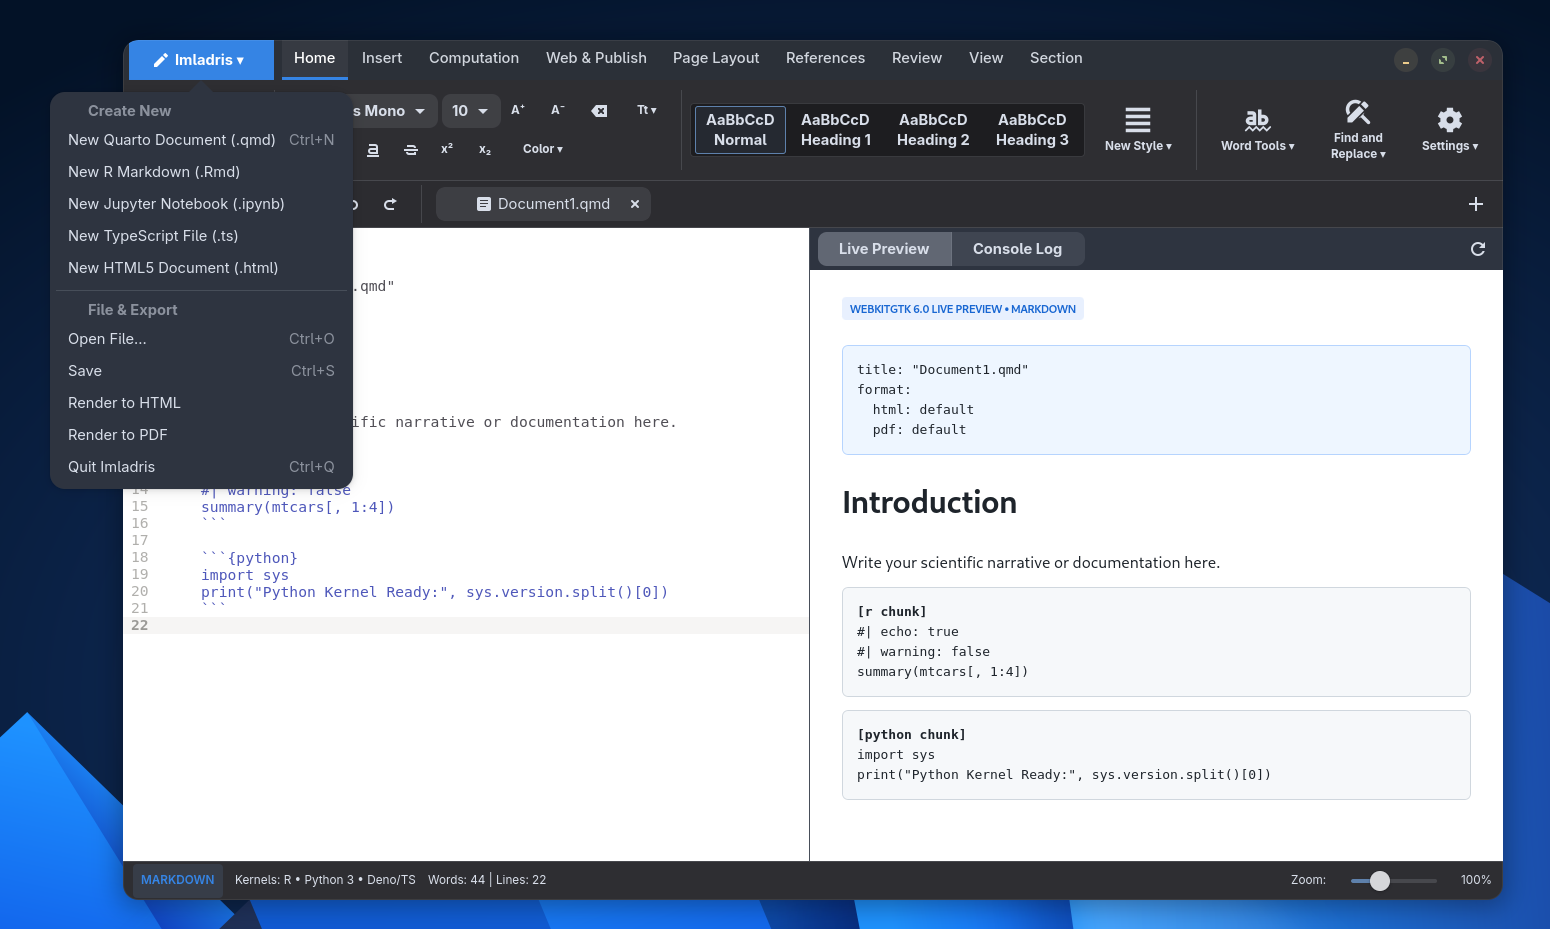
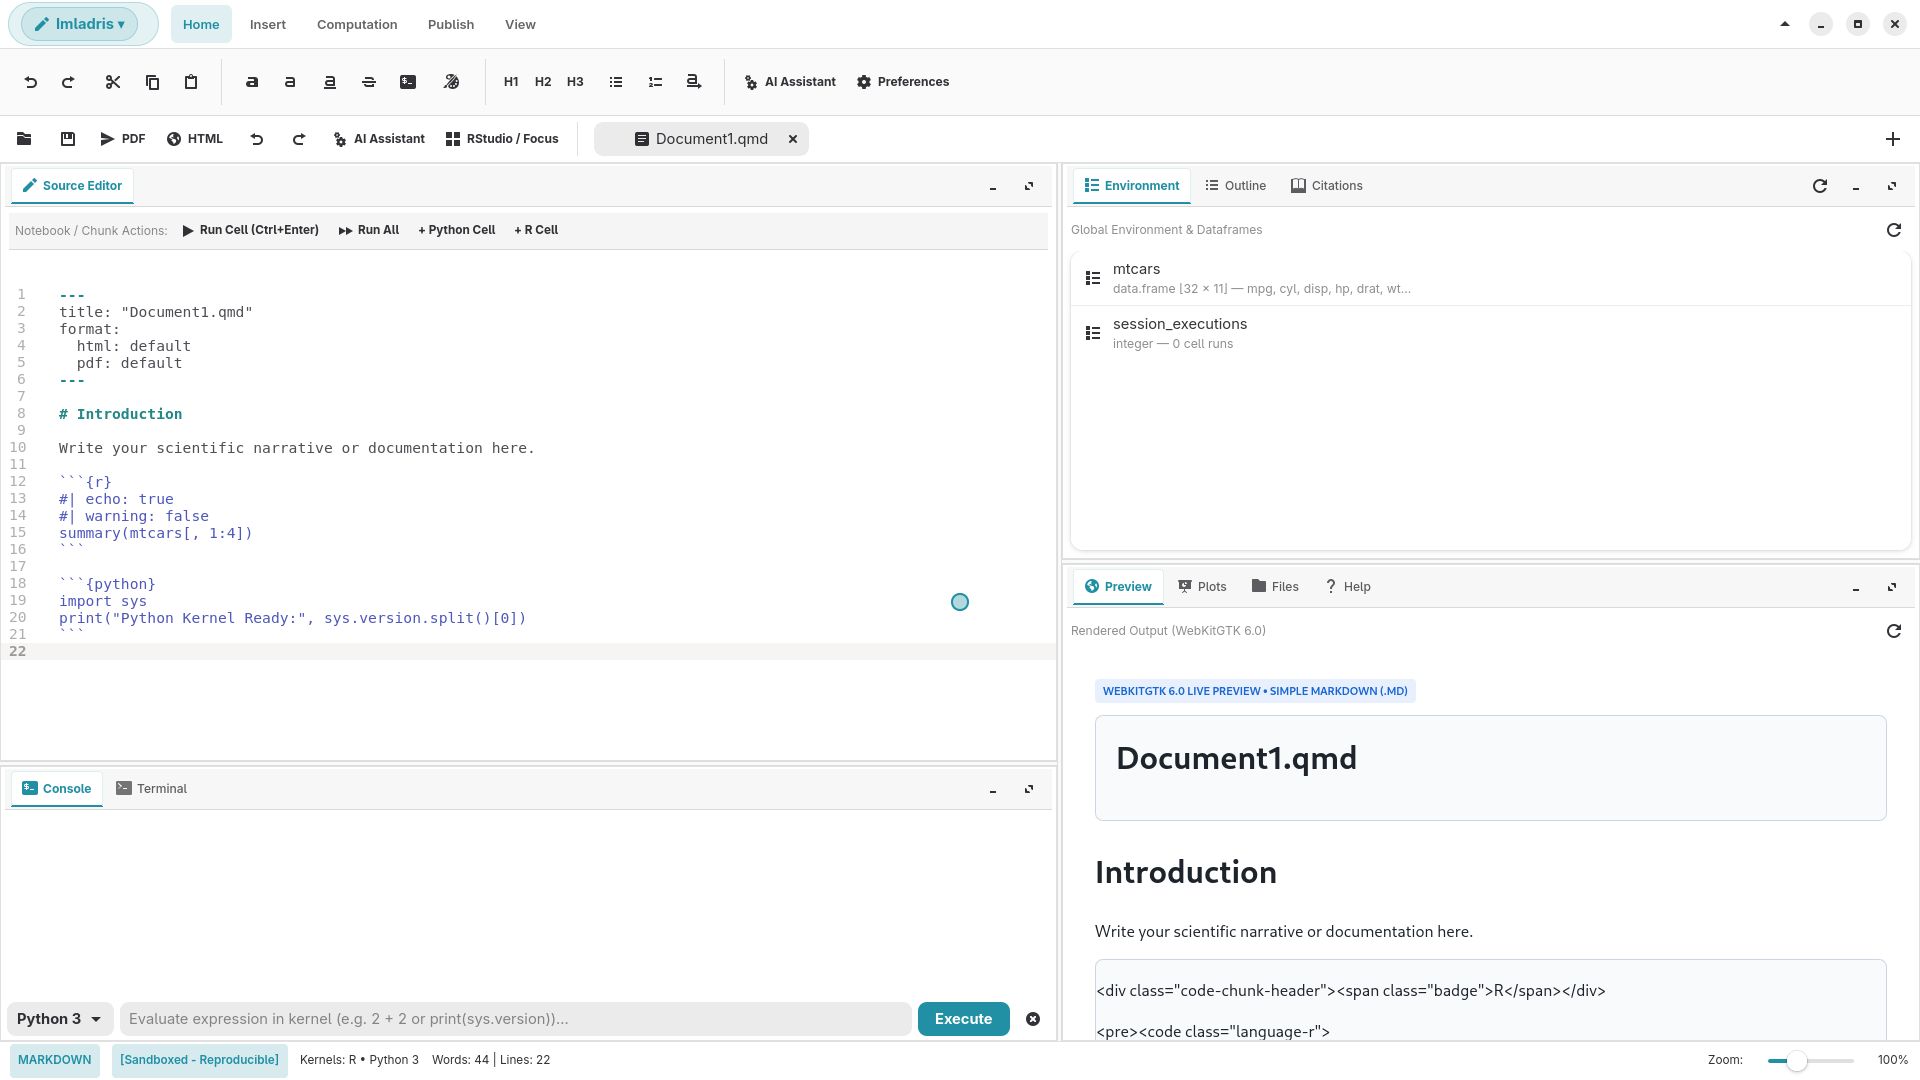
docs: update README and AppStream metainfo with new screenshots and modernized UI documentation

diff --git a/README.md b/README.md
@@ -30,7 +30,13 @@ The itch it scratches is simple. RStudio is great for analysis but heavy for pro
 - **Writer mode** for `.md` and `.html`: no kernels are started, nothing computational is shown, and the ribbon shows only formatting, live preview and export.
 - **Workbench mode** for `.Rmd`, `.qmd`, `.ipynb`, `.R` and `.py`: source editor, environment/outline pane, console + terminal, and a files/plots/packages pane.
 
-The ribbon follows suit. It's a small state machine (`Window.update_ribbon_state_machine`) that shows or greys out actions based on the document format and project type, so you don't see "Restart Kernel" on a Markdown note.
+### Modernized Libadwaita Ribbon Menu
+The Ribbon menu has been modernized to integrate seamlessly with GNOME Libadwaita and GTK4 design language:
+- **5 High-Density Tabs**: Consolidated 9 fragmented tabs into 5 high-utility tabs: `Home`, `Insert`, `Computation`, `Publish`, and `View`.
+- **Linked Controls & Design Tokens**: Uses native `@headerbar_bg_color`, `@window_bg_color`, and `@accent_color` tokens with linked button groups (`.linked`), reducing vertical height by ~35px to a sleek ~52px deck.
+- **Collapsible Ribbon (`Ctrl+F1`)**: Quickly collapse or expand the ribbon deck on demand with the top-bar chevron button or `<Control>F1` shortcut for maximum editor focus.
+- **Wired Functional Tools**: Built-in undo/redo (`Ctrl+Z` / `Ctrl+Shift+Z`), headings (`#`, `##`, `###`), lists and blockquotes, interactive 6x6 table picker popover, code chunk popover, citation popovers, LaTeX math (`$$`), Mermaid diagrams, ggplot2 snippets, and live zoom slider.
+- **Context-Aware State Machine**: A dedicated engine (`Window.update_ribbon_state_machine`) adapts visible and sensitive states based on document format and project sandbox type, avoiding irrelevant actions.
 
 ### Running code
 - Persistent **R** and **Python** sessions (`ReplBridge`) run as long-lived subprocesses, so variables survive between chunks like they do in a real REPL.
@@ -73,11 +79,19 @@ Imladris includes a dedicated AI writing and coding panel with out-of-the-box su
 - **Local Ollama & LM Studio**: Zero-cloud offline privacy via Ollama (`localhost:11434`) or LM Studio Local Server (`localhost:1234`).
 - **Custom OpenAI-Compatible**: Connect to any endpoint (Groq, Mistral, Together, vLLM, private proxies).
 
+<p align="center">
+  <img src="data/screenshots/imladris-preferences-ai.png" alt="Multi-Provider AI Assistant Configuration" width="700">
+</p>
+
 Credentials and model choices are persisted locally in `~/.config/imladris/ai_config.json` (restricted to user read-write mode `0600`) and automatically detect standard environment variables (`GEMINI_API_KEY`, `ANTHROPIC_API_KEY`, `OPENAI_API_KEY`, `DEEPSEEK_API_KEY`, `MOONSHOT_API_KEY`, `DASHSCOPE_API_KEY`, `CURSOR_API_KEY`, `NVIDIA_API_KEY`).
 
 ### Extras
 - **Appearance & GNOME Accents** (menu → Preferences, `Ctrl+,`): switch between System Theme, Light, Dark, and Eye Friendly (warm sepia) palettes. Includes GNOME Settings-style circular accent color swatches (Blue, Teal, Green, Yellow, Orange, Red, Pink, Purple, Slate) with live synchronization to `org.gnome.desktop.interface accent-color`.
 - **Hardware acceleration toggle** (menu → Preferences, `Ctrl+,`): switches every WebKit view between GPU compositing and pure software rendering, live, with the choice stored in GSettings. Handy on VMs, older hardware or flaky drivers.
+
+<p align="center">
+  <img src="data/screenshots/imladris-preferences-theming.png" alt="Appearance Preferences and GNOME Accent Colors" width="700">
+</p>
 
 Built-in MCP server (`imladris --mcp-server`), and crash recovery that keeps shadow copies of unsaved work in `~/.cache/imladris/recovery/`. The AI assistant is off the critical path: nothing is sent anywhere unless you configure an endpoint and use it.
 
@@ -132,9 +146,13 @@ imladris --mcp-server
 | :--- | :--- |
 | `Ctrl+N` | New project / document dialog |
 | `Ctrl+O` / `Ctrl+S` | Open / Save |
+| `Ctrl+F1` | Toggle Ribbon collapse / expand |
+| `Ctrl+Z` / `Ctrl+Shift+Z` | Undo / Redo |
+| `Ctrl++` / `Ctrl+-` / `Ctrl+0` | Zoom In / Zoom Out / Reset Zoom (100%) |
 | `Ctrl+Shift+P` | Package installer |
 | `Ctrl+Enter` | Run line or selection |
 | `Ctrl+Shift+Enter` | Run current chunk |
+| `Ctrl+,` | Preferences (Appearance & AI Providers) |
 | `Ctrl+Q` | Quit |
 
 ---
